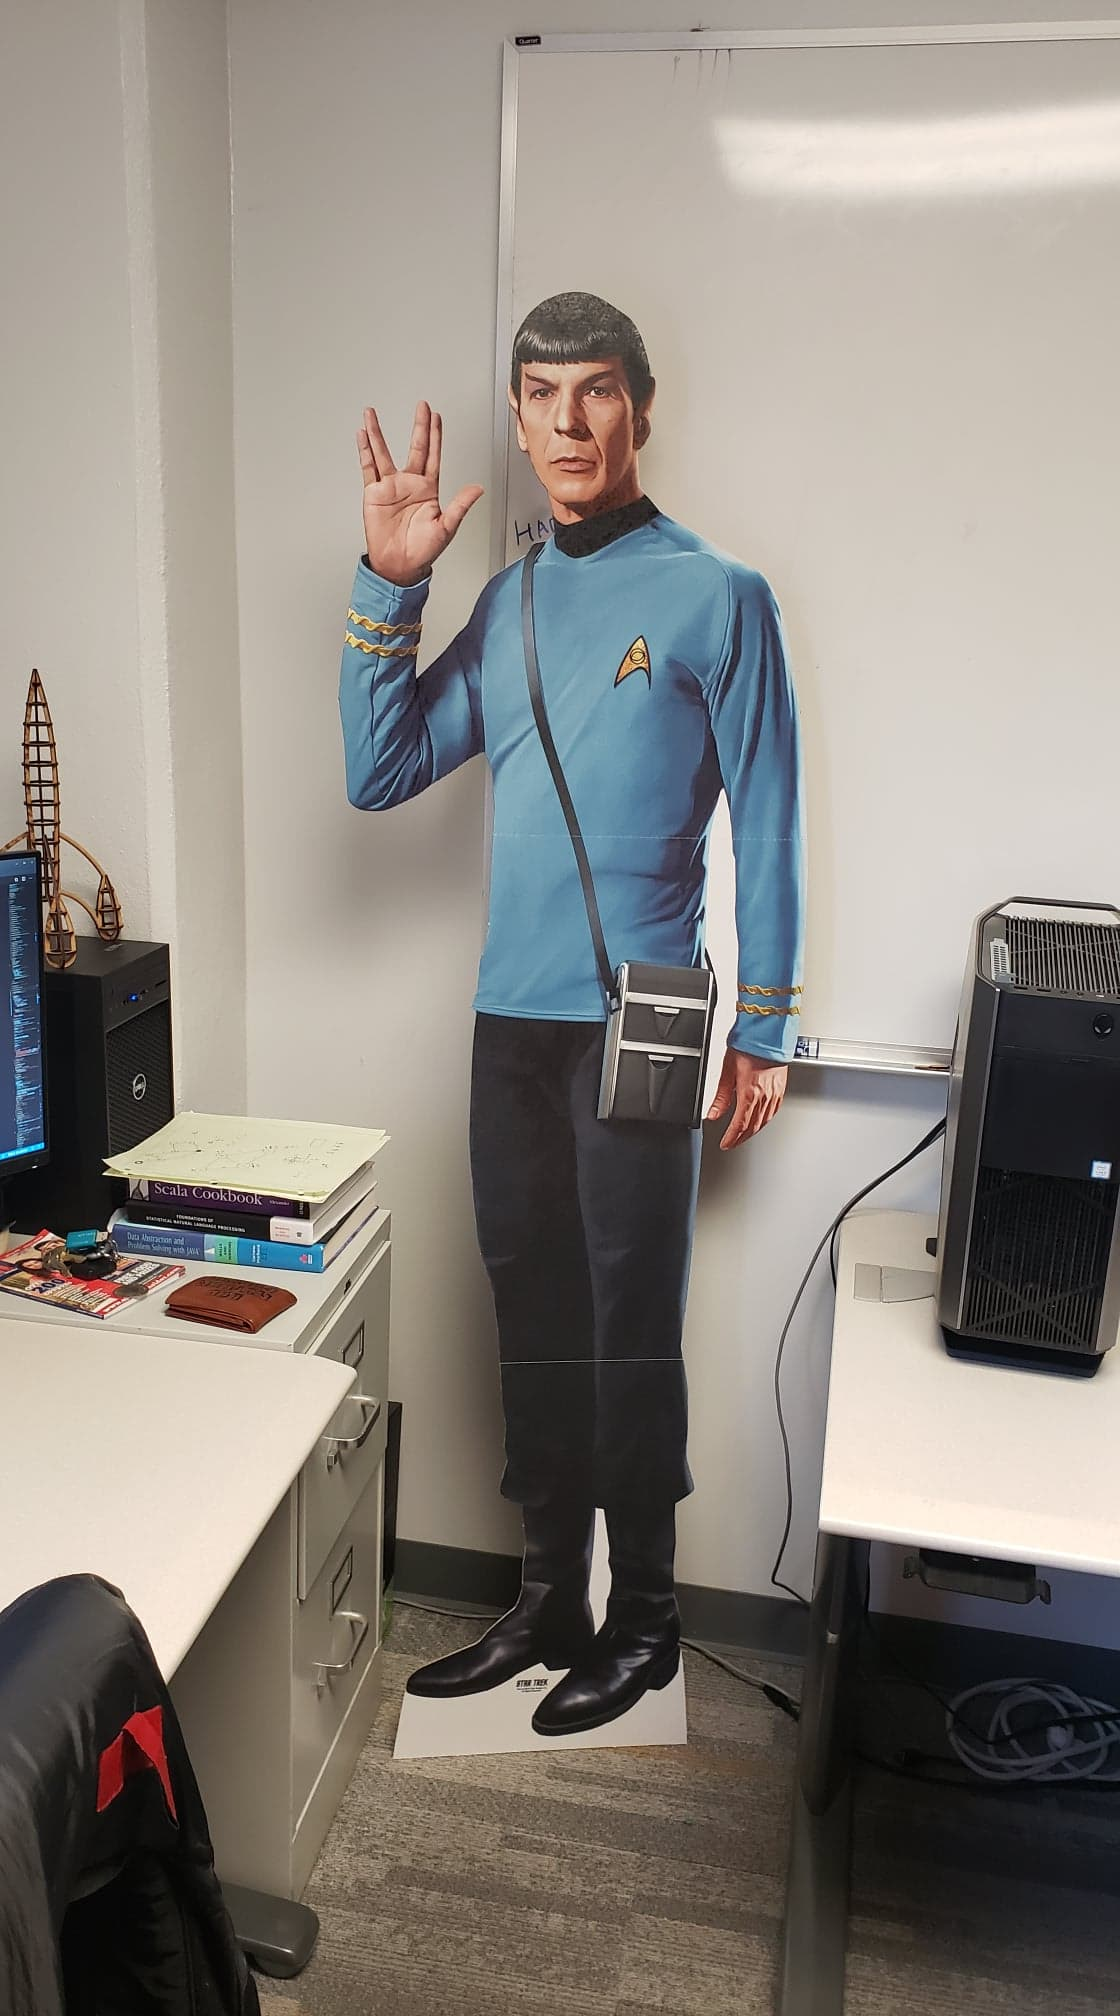
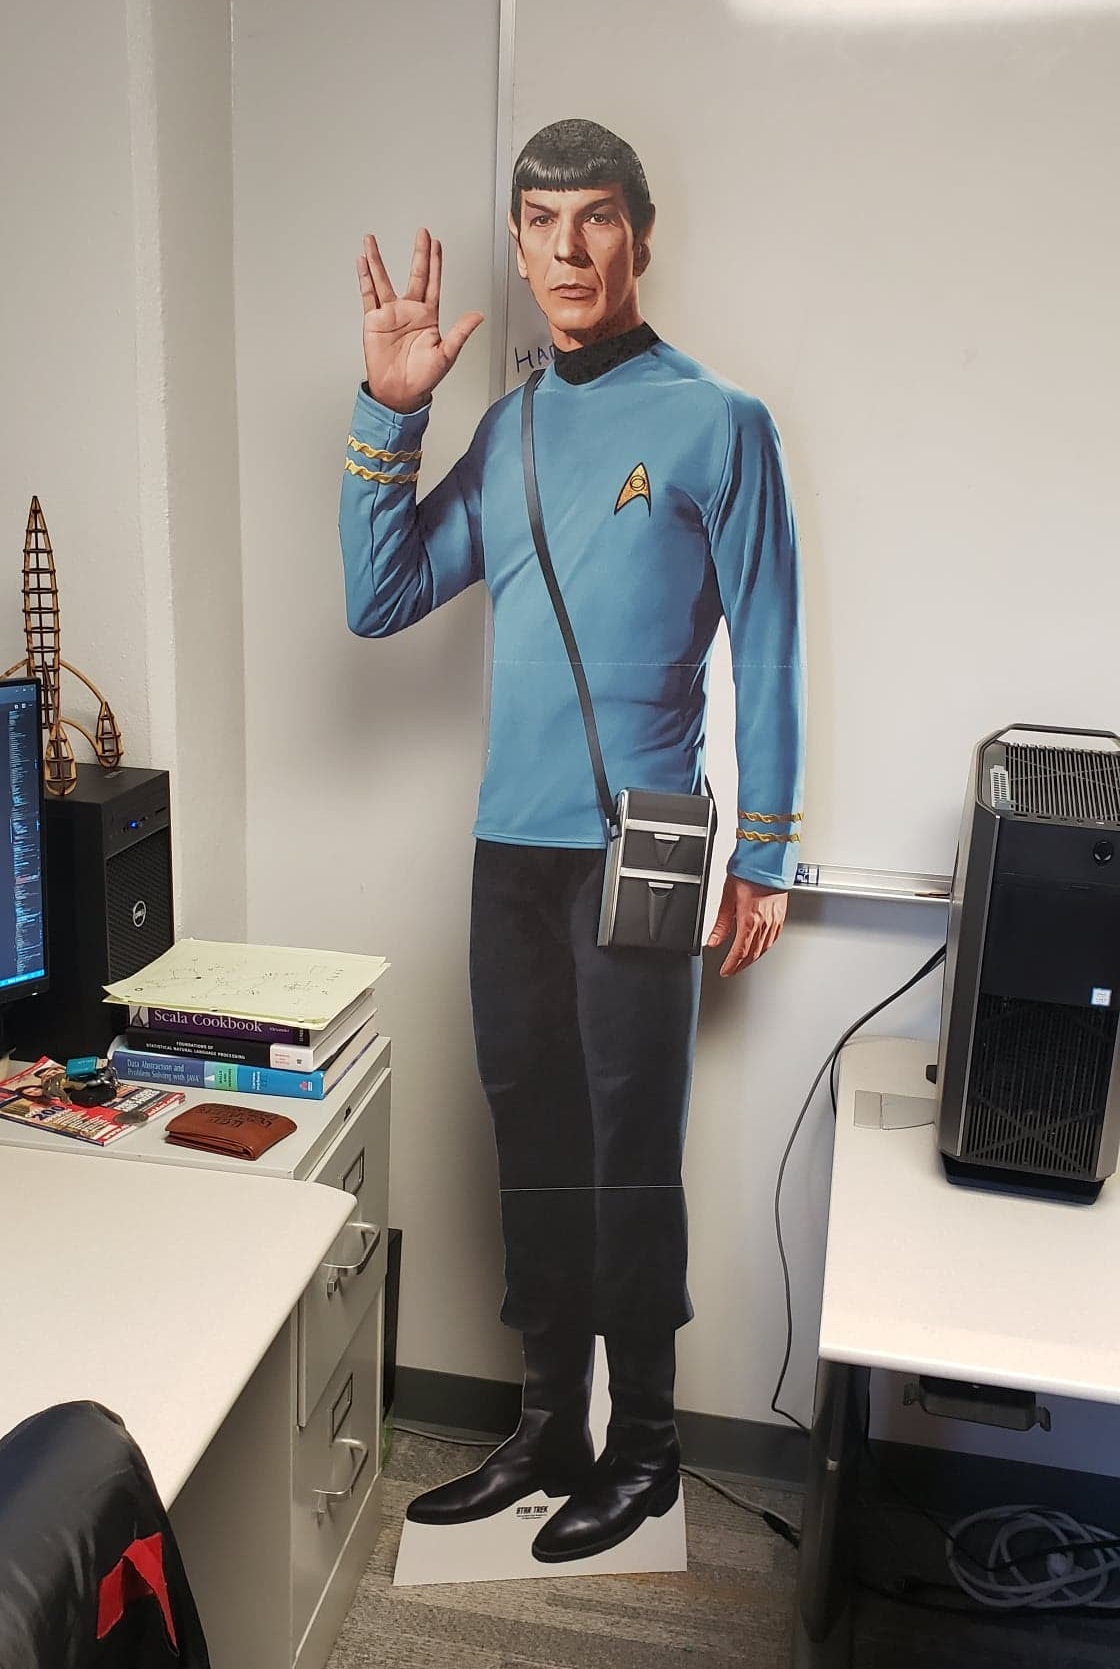
updated for the year

diff --git a/index.html b/index.html
@@ -18,7 +18,7 @@
 <body>
 
     <div class="sidepanel">
-        <img src="res/seb.jpeg" alt="Image of Sebastian Thiem" class="pfp">
+        <img src="res/me-closer-flip.jpeg" alt="Image of Sebastian Thiem" class="pfp">
 
         <div class="namecard">
             <h2>Sebastian Thiem</h2>
@@ -86,11 +86,11 @@
                 <div>
                     <!-- <h3>High Level</h3> -->
                     <div class="tagbox tag0">
-                        <p>High Performance Computing</p>
-                        <p>Embedded Devices</p>
+                        <p>Leadership</p>
                         <p>Research</p>
-                        <p>DSP</p>
                         <p>Web/App Development</p>
+                        <p>Embedded Devices</p>
+                        <p>DSP</p>
                         <p>FPGA</p>
                     </div>
                 </div>
@@ -162,16 +162,34 @@
             <div id="employment">
                 <div>
                     <h1>Employment</h1>
-                    <p id="jobtitle">Research Assistant -- University of Arizona</p>
-                    <p id="jobtimeline">June 2019 - June 2020</p>
-                    <p id="jobdescription">
-                        The lab’s goal was to design and implement algorithms for automatically constructing human readable explanations to 
-                        science exam questions. My work involved designing an interactive web-tool for annotating a large dataset of explanatory 
-                        patterns based on a corpus of full explanations to science questions. Annotators then used the tool, and from the dataset they 
-                        generated, we created a model that would produce human readable explanations.
-                    </p>
+                    <div class="jobCard" id="job1">
+                        <div>
+                            <p id="jobtitle">Software Engineer | Engagement Leader -- IQ Inc</p>
+                            <p id="jobtimeline">January 2021 - present</p>
+                            <p id="jobdescription">
+                                ScrumMaster to an agile team of 4 other engineers. The team works on safety-critical control systems for trains all across the globe.
+                                Primarily worked in C++/Python.
+                                IQ is in the business of software consultancy, so my work will occasionally dip into other projects (e.g. UI/UX work for Medical Devices).
+                                Part of my time is dedicated to an Engagement Leader role. In this role we coach and support 3-6 other engineers. We are a
+                                point of contact for performance&nbsp;reviews; career questions; training opportunities; or anything else they needed from the company.
+                            </p>
+                        </div>
+                        <img id="job2Img" src="res/SE59967_logo_orig.jpg" alt="IQ Inc logo">
+                    </div>
+                    <div class="jobCard" id="job1">
+                        <div>
+                            <p id="jobtitle">Research Assistant -- University of Arizona</p>
+                            <p id="jobtimeline">June 2019 - June 2020</p>
+                            <p id="jobdescription">
+                                The lab’s goal was to design and implement algorithms for automatically constructing human readable explanations to 
+                                science exam questions. My work involved designing an interactive web-tool for annotating a large dataset of explanatory 
+                                patterns based on a corpus of full explanations to science questions. Annotators then used the tool, and from the dataset they 
+                                generated, we created a model that would produce human readable explanations.
+                            </p>
+                        </div>
+                        <img id="job1Img" src="res/spock-lab.jpg" alt="Spock">
+                    </div>
                 </div>
-                <img src="res/spock-lab.jpg" alt="Spock">
     
             </div>
         </div>

diff --git a/style/index.css b/style/index.css
@@ -365,13 +365,24 @@ div#employment{
     justify-content: space-between;
     border-radius: 10px;
     text-align: right;
+    justify-content: end;
+    align-content: flex-end;
+    align-items: flex-end;
 }
 div#employment img{
     border-top-right-radius: 10px;
     border-bottom-right-radius: 10px;
-    height: 400px;
+}
+div#employment img#job1Img{
+    height: 300px;
     width: 210px;
-    object-fit: cover;
+    object-fit:cover;
+}
+div#employment img#job2Img{
+    height: 300px;
+    width: 210px;
+    object-fit: contain;
+    background-color: white;
 }
 @media screen and (max-width: 1080px){
     div#employment img{
@@ -394,6 +405,18 @@ div#employment p#jobtimeline{
 }
 div#employment p#jobdescription{
     margin: 35px 25px 10px 25px;
+}
+
+div.jobCard {
+    display: flex;
+    flex-direction: row;
+    margin: 30px 0px;
+}
+div .jobCard:nth-last-child(1){
+    margin: 30px 0px 0px;
+}
+div.jobCard > div {
+    max-width: 900px;
 }
 
 .cardbox{
